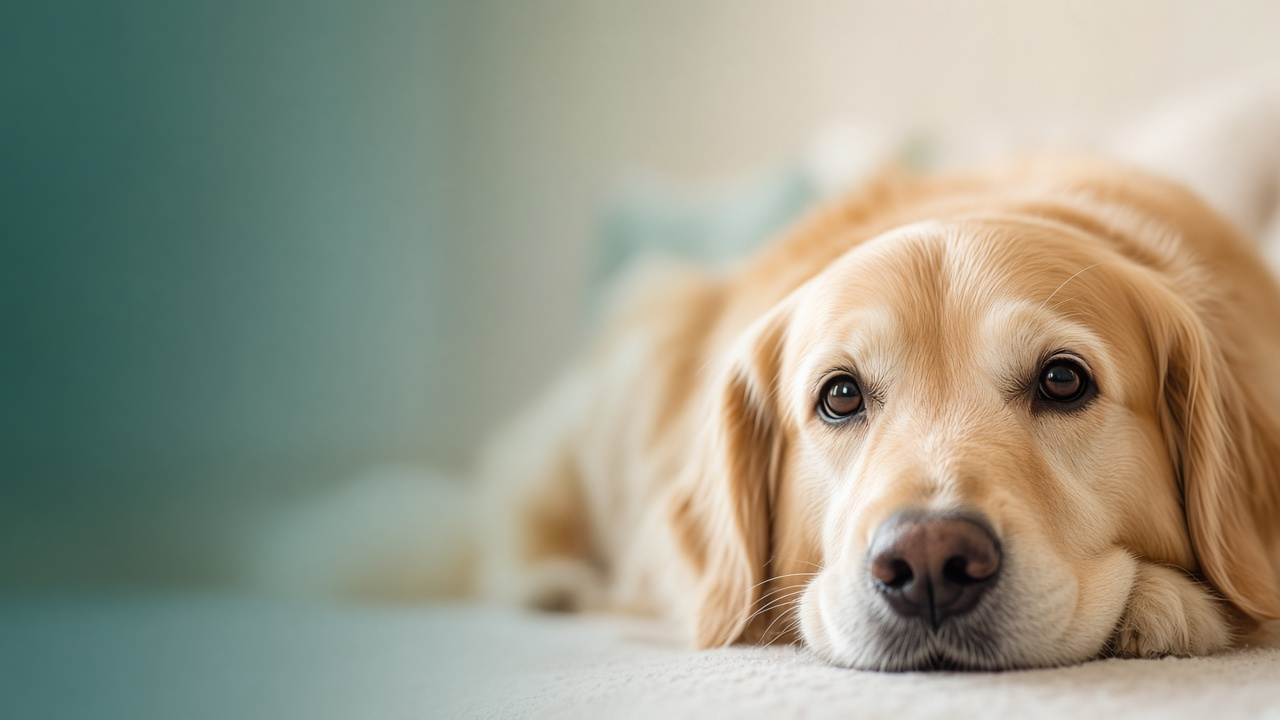
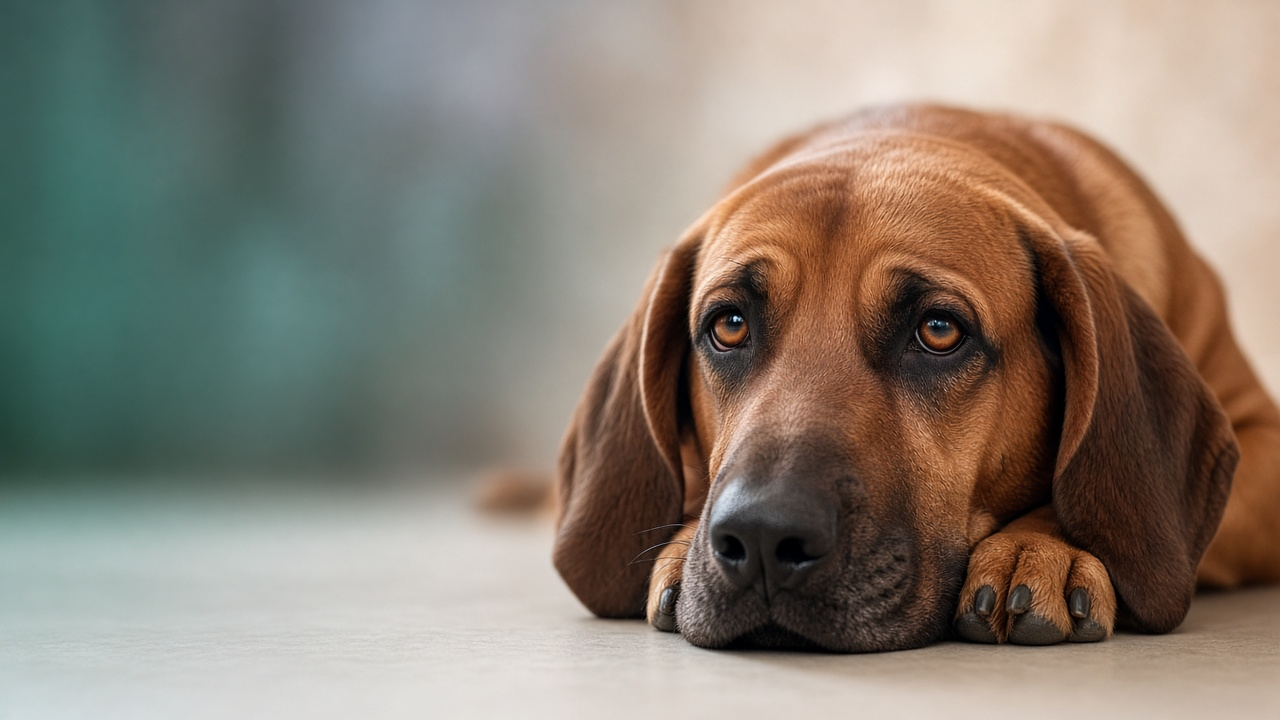
Change the image of the dog

diff --git a/src/styles/global.css b/src/styles/global.css
@@ -575,9 +575,22 @@ h3 {
   position: relative;
   overflow: hidden;
   background:
-    linear-gradient(120deg, rgba(6, 63, 77, 0.92), rgba(6, 104, 126, 0.72)),
-    var(--hero-image, none) center / cover;
+    linear-gradient(
+      105deg,
+      rgba(6, 63, 77, 0.94) 0%,
+      rgba(6, 63, 77, 0.88) 32%,
+      rgba(6, 104, 126, 0.35) 58%,
+      rgba(6, 104, 126, 0.08) 78%,
+      transparent 100%
+    ),
+    var(--hero-image, none) right center / cover;
   padding: 72px 0;
+}
+
+.page-hero.has-image .eyebrow,
+.page-hero.has-image h1,
+.page-hero.has-image p {
+  max-width: 28rem;
 }
 
 .page-hero p {
